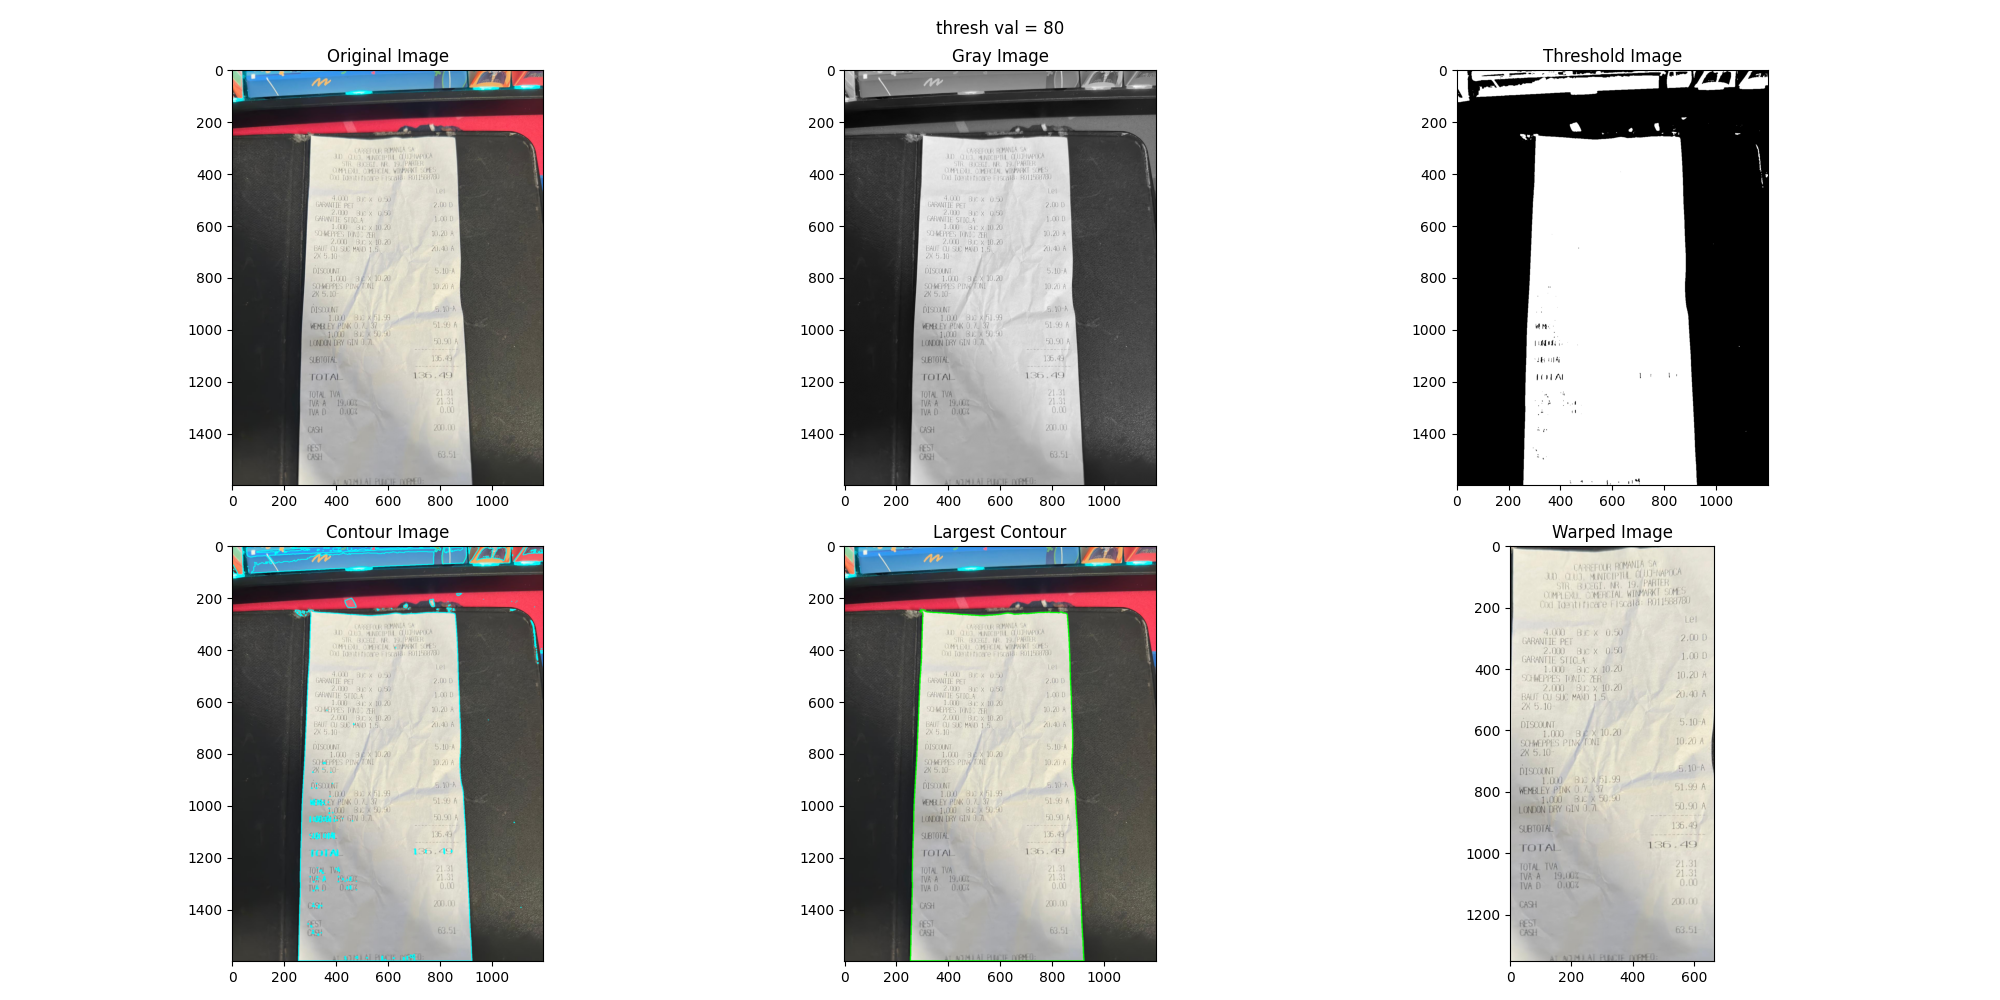
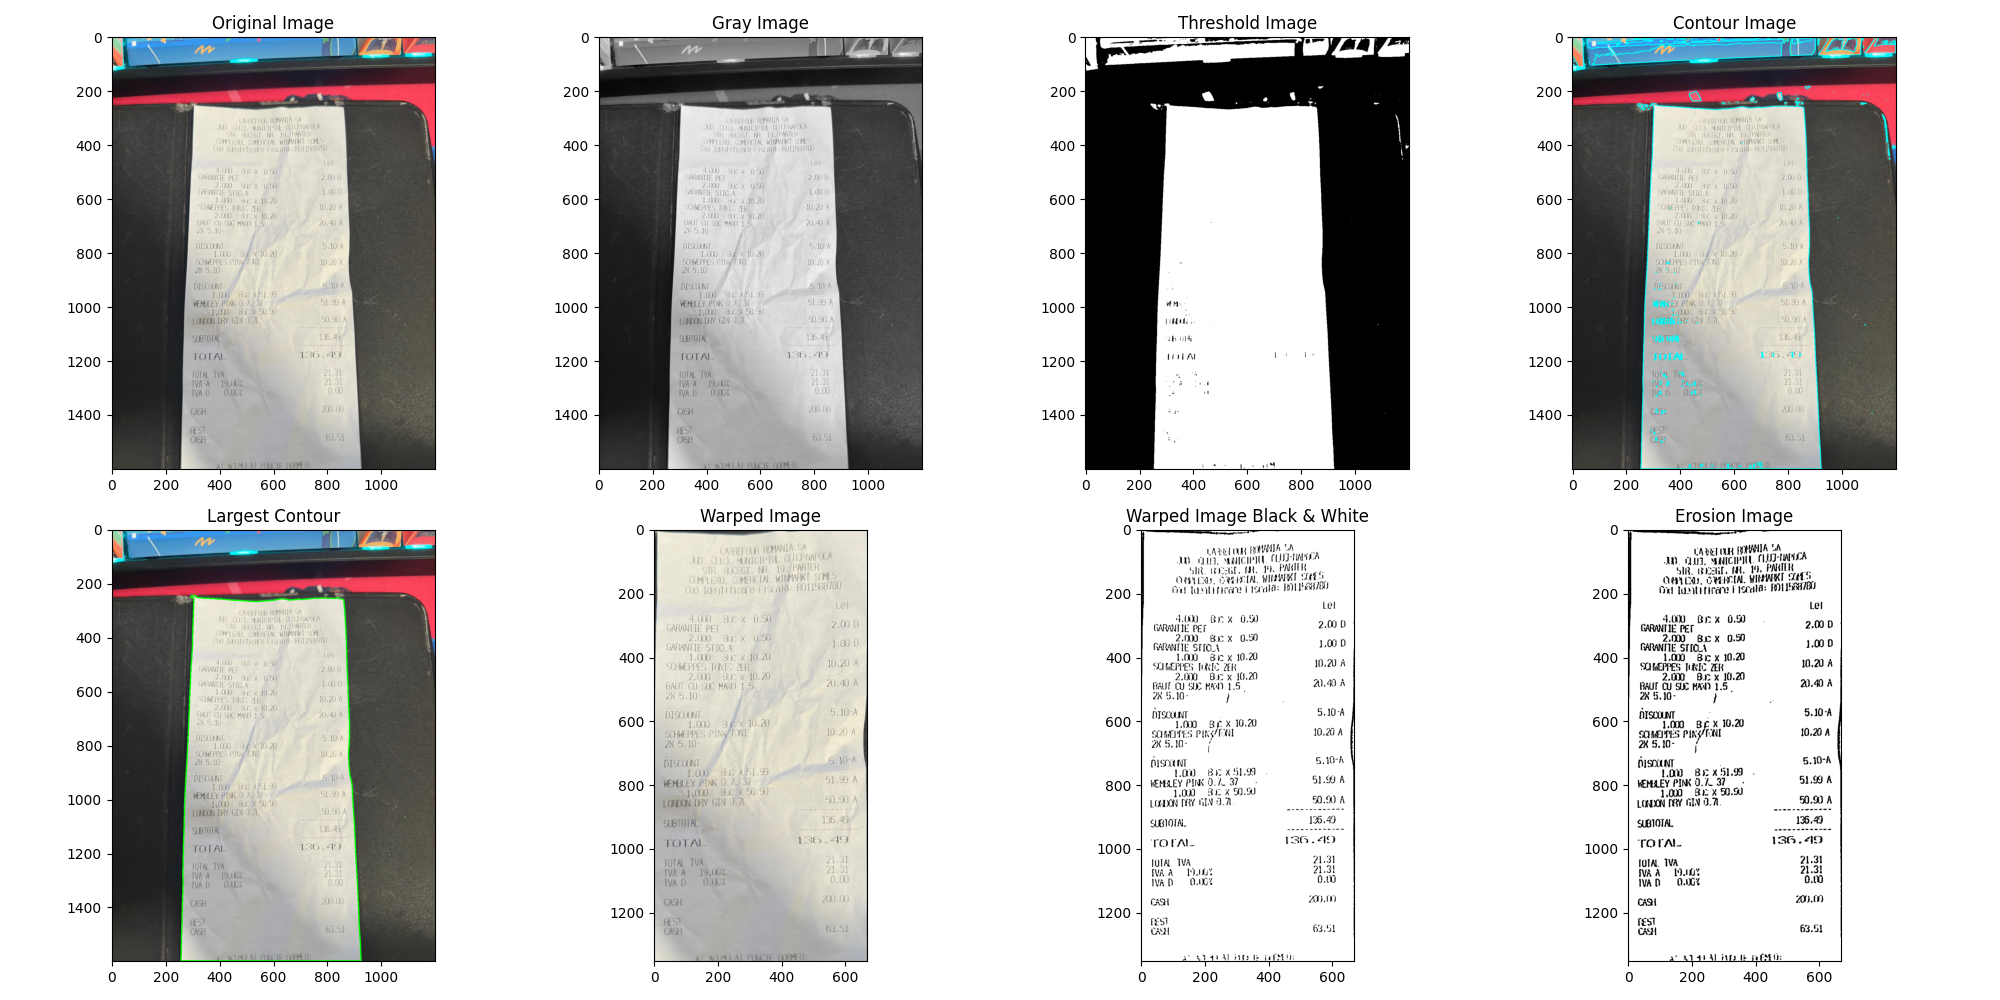
update code

diff --git a/ContourDetection/scannerv2.py b/ContourDetection/scannerv2.py
@@ -4,6 +4,8 @@ import numpy as np
 import pytesseract
 import os
 from easyocr import Reader
+from paddleocr import PaddleOCR
+
 
 def order_points(pts):
     rect = np.zeros((4, 2), dtype="float32")
@@ -15,11 +17,15 @@ def order_points(pts):
     rect[3] = pts[np.argmax(diff)]
     return rect
 
-
+def preprocess_receipt(image):
+    gray = cv2.cvtColor(image, cv2.COLOR_BGR2GRAY)
+    blurred = cv2.GaussianBlur(gray, (5, 5), 0)
+    bw_image = cv2.adaptiveThreshold(blurred, 255, cv2.ADAPTIVE_THRESH_GAUSSIAN_C, cv2.THRESH_BINARY, 21, 10)
+    return bw_image
 
 output_dir = './saved_images'
 
-img_var = 'test18'
+img_var = 'test31'
 #thresh_val = 80
 
 image1 = cv2.imread(rf'./images/{img_var}.jpg')
@@ -32,17 +38,17 @@ otsu_threshold, binary_image = cv2.threshold(blurred, 0, 255, cv2.THRESH_BINARY 
 
 plt.figure(figsize=(20, 10))
 
-plt.subplot(2, 3, 1)
+plt.subplot(2, 4, 1)
 plt.imshow(cv2.cvtColor(image1, cv2.COLOR_BGR2RGB))
 plt.title('Original Image')
 
 
-plt.subplot(2, 3, 2)
+plt.subplot(2, 4, 2)
 plt.imshow(img_gray, cmap='gray')
 plt.title('Gray Image')
 
 
-plt.subplot(2, 3, 3)
+plt.subplot(2, 4, 3)
 plt.imshow(binary_image, cmap='gray')
 plt.title('Threshold Image')
 
@@ -57,14 +63,14 @@ image_contours1 = cv2.drawContours(image=image1.copy(),
                                    thickness=2,
                                    lineType=cv2.LINE_AA)
 
-plt.subplot(2, 3, 4)
+plt.subplot(2, 4, 4)
 plt.imshow(cv2.cvtColor(image_contours1, cv2.COLOR_BGR2RGB))
 plt.title('Contour Image')
 
 largest_contour = max(contours1, key=cv2.contourArea)
 image_with_largest_contour = cv2.drawContours(image1.copy(), [largest_contour], -1, (0, 255, 0), 3)
 
-plt.subplot(2, 3, 5)
+plt.subplot(2, 4, 5)
 plt.imshow(cv2.cvtColor(image_with_largest_contour, cv2.COLOR_BGR2RGB))
 plt.title('Largest Contour')
 
@@ -94,9 +100,22 @@ if len(approx) == 4:
     M = cv2.getPerspectiveTransform(ordered_points, dst)
     warped = cv2.warpPerspective(image1, M, (max_width, max_height))
 
-    plt.subplot(2, 3, 6)
+    plt.subplot(2, 4, 6)
     plt.imshow(cv2.cvtColor(warped, cv2.COLOR_BGR2RGB))
     plt.title('Warped Image')
+    warped_bw = preprocess_receipt(warped)
+    plt.subplot(2, 4, 7)
+    plt.imshow(cv2.cvtColor(warped_bw, cv2.COLOR_BGR2RGB))
+    plt.title('Warped Image Black & White')
+    # opening = cv2.dilate(warped2, np.ones((2, 2), np.uint8))
+    # plt.subplot(2, 4, 7)
+    # plt.imshow(cv2.cvtColor(opening, cv2.COLOR_BGR2RGB))
+    # plt.title('Erosion Image')
+    erosion = cv2.erode(warped_bw, np.ones((2,2), np.uint8))
+    plt.subplot(2, 4, 8)
+    plt.imshow(cv2.cvtColor(erosion, cv2.COLOR_BGR2RGB))
+    plt.title('Erosion Image')
+
 else:
     print("Could not find a quadrilateral contour for the receipt.")
 
@@ -106,17 +125,55 @@ final_path = os.path.join(output_dir, f'{img_var}_final_plot.png')
 plt.savefig(final_path)
 plt.show()
 
-config_tesseract = "--tessdata-dir ./tessdata"
-result = pytesseract.image_to_string(warped, lang='eng', config=config_tesseract)
-print(result)
+ocr = PaddleOCR(use_angle_cls=True, lang='en')
+result = ocr.ocr(warped, cls=True)
+for line in result:
+    for word_info in line:
+        print(word_info[1][0])
 
-print('--------------------------------------------------------------')
+# Define the output directory where the OCR result will be saved
+output_text_dir = r"D:\Contour-Detection-OCR\ContourDetection\ocr_saved_text"
 
-languages_list = ['en']
-reader = Reader(languages_list)
-results = reader.readtext(warped)
-for r in results:
-    print(r[1])
+# Ensure the directory exists
+os.makedirs(output_text_dir, exist_ok=True)
+
+# Define the full path of the output text file
+output_text_path = os.path.join(output_text_dir, f"{img_var}_ocr_result.txt")
+
+# Open the file in write mode and properly format the output
+with open(output_text_path, "w", encoding="utf-8") as f:
+    for line in result:  # Iterate over detected lines
+        if isinstance(line, list):  # Ensure it's a valid line
+            words_in_line = [word_info[1][0] for word_info in line]  # Extract words
+            line_text = " ".join(words_in_line)  # Join words to preserve spacing
+            f.write(line_text.strip() + "\n")  # Write each line separately with a newline
+
+print(f"OCR result saved to: {output_text_path}")
+
+
+# result = ocr.ocr(warped_bw, cls=True)
+# for line in result:
+#     for word_info in line:
+#         print(word_info[1][0])
+
+#
+# languages_list = ['en']
+# reader = Reader(languages_list)
+# results = reader.readtext(warped_bw)
+# for r in results:
+#     print(r[1])
+# print('--------------------------------------------------------------')
+# config_tesseract = "--tessdata-dir ./tessdata"
+# result = pytesseract.image_to_string(erosion, lang='ron', config=config_tesseract)
+# print(result)
+
+# print('--------------------------------------------------------------')
+# result2 = pytesseract.image_to_string(warped_bw, lang='ron', config=config_tesseract)
+# print(result2)
+#
+# print('--------------------------------------------------------------')
+# result3 = pytesseract.image_to_string(warped, lang='ron', config=config_tesseract)
+# print(result3)
 
 
 

diff --git a/ContourDetection/test_filter.py b/ContourDetection/test_filter.py
@@ -1,52 +1,63 @@
 import re
 
-def filter_relevant_lines(text):
-    lines = text.split("\n")  # Split text into lines
-    relevant_lines = []
-    capture_next_line = False  # Flag to capture product name after quantity
 
-    for i, line in enumerate(lines):
-        line = line.strip()  # Remove extra spaces
-
-        # If the line contains a price, quantity, or "TOTAL", keep it
-        if re.search(r"\d{1,3}[.,]?\d{0,2}.*(Kg|Buc|X|TOTAL)", line, re.IGNORECASE):
-            relevant_lines.append(line)
-            capture_next_line = True  # Mark next line as product name
-
-        elif capture_next_line:  # Capture product name (appears after quantity)
-            relevant_lines.append(line)
-            capture_next_line = False  # Reset flag
-
-    return "\n".join(relevant_lines)  # Join lines back into text
-
-# Example OCR output (unfiltered text)
 ocr_text = """
-MEGA IMAGE SRL
-JUD. CLUJ, MUNICIPIUL CLUJ-NAPOCA
-PIATA UNIRII, NR. 2Z. PARTER. AP. 9
-Cod [aentificare Fiscala: R06719278
+S.C. PEPOU HETAII. S.R.L.
+SIRADA BUCEGI. NA.19, FEZANIN
+IN CENIRUL COMERCIAL HINVARAT MR.1
+JXETUL QLUJ, MNICIPIU. CLUD NAPECA
+Cod Identificare Fiscăla: RO31477663
 
-2]
-1,000° BUC, x 2,99
-CICC DARK WAFESH0G Zi o2l
-1,000 S RLIGE I dFod
-ALKA CIOC AL350G 14,29 A
-O LT S
-TOTAL TVA 210
-VA A 19,00% 2,76
-CARD 17,28
+Lel
+1,000 buc x 4,99
+30038635 SET 4 BUC. SUPORTURI 4.9 A
+PLU: 30038635
+Extră PLU: 2207430038667
+TOTAL 4.99
+TOTAL TVA 0.80
+TVAA 19.002 0.80
+CASH 5.0
+Rest
+CASH 0.01-
+Trz.: 3080-2-448639
+Cas.: 3104004
 
-ING
-(=140 LT TRANZACTIT:
+Va mul tumtm pentru cumearaturi!
+Reincârcati telefaul în releaua Pepco!
+Gâsiţi oferta de produse pe kWww.pepco.ro
+Bunrile se pot returna în baza bonului
+1n max 30 zile de 1a data adlzi tionării
 
-ING 17,28
-VR
+tn orice maoazin PEPCO din tară.
 
-o b x| F oW 2V WVl v ..
+Produsele din caleooria lenJerle nu se
+returnează. Multunim pentru inţelegere!
 
+EJIRZ: 00238
+ID UNIC: 80002794512024120523162122320238
+PF. 00238 TA 06/12/2024 _ 0RA:20-16-24
+8000279458
+8 ON FISCAL
 """
 
-# Run the filter function
+def filter_relevant_lines(text):
+    lines = text.split("\n")
+    relevant_lines = []
+    capture_next_line = False
+
+    for i, line in enumerate(lines):
+        line = line.strip()
+
+        if re.search(r"\d{1,3}[.,]?\d{0,2}.*(Kg|Buc|X|TOTAL)", line, re.IGNORECASE):
+            relevant_lines.append(line)
+            capture_next_line = True
+
+        elif capture_next_line:
+            relevant_lines.append(line)
+            capture_next_line = False
+
+    return "\n".join(relevant_lines)
+
 filtered_text = filter_relevant_lines(ocr_text)
 
 print("Filtered Text:\n", filtered_text)
